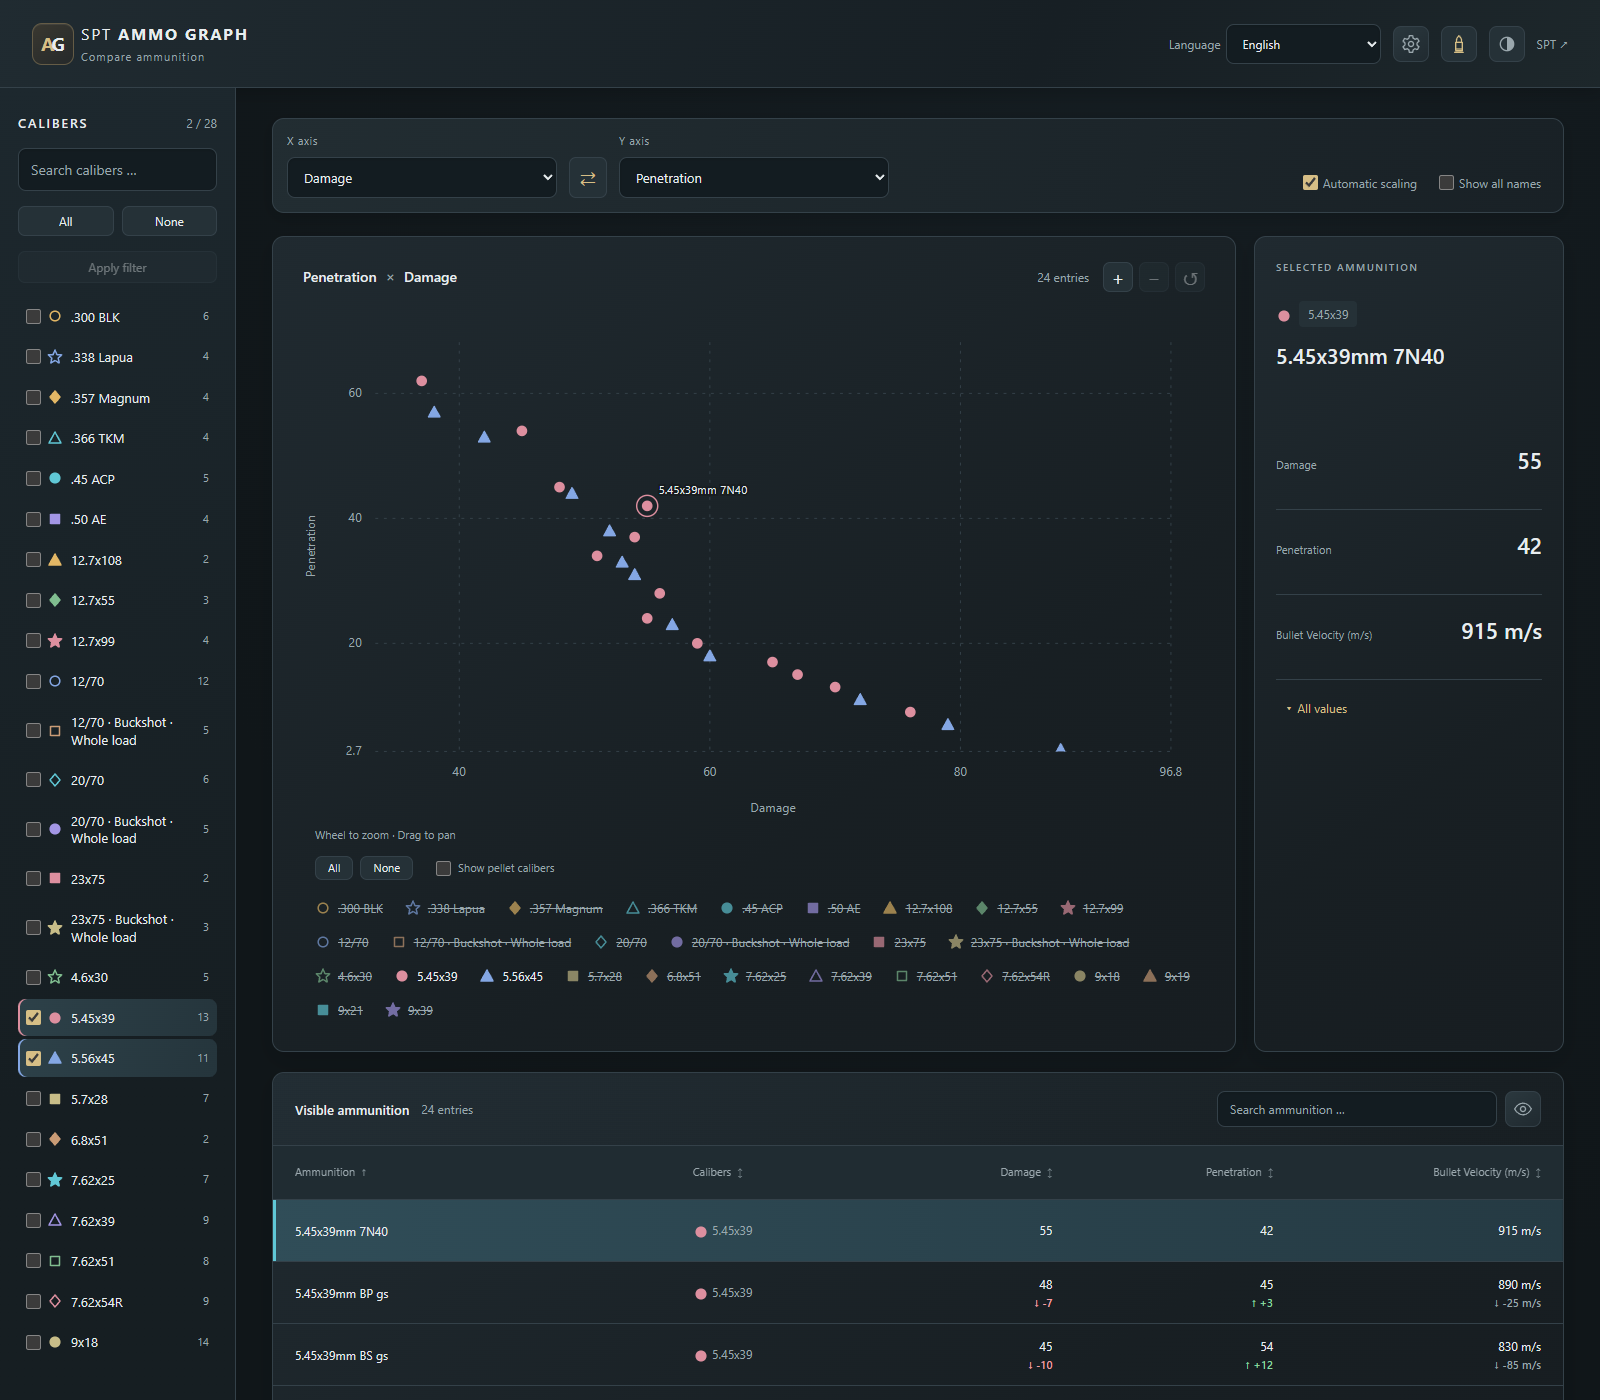
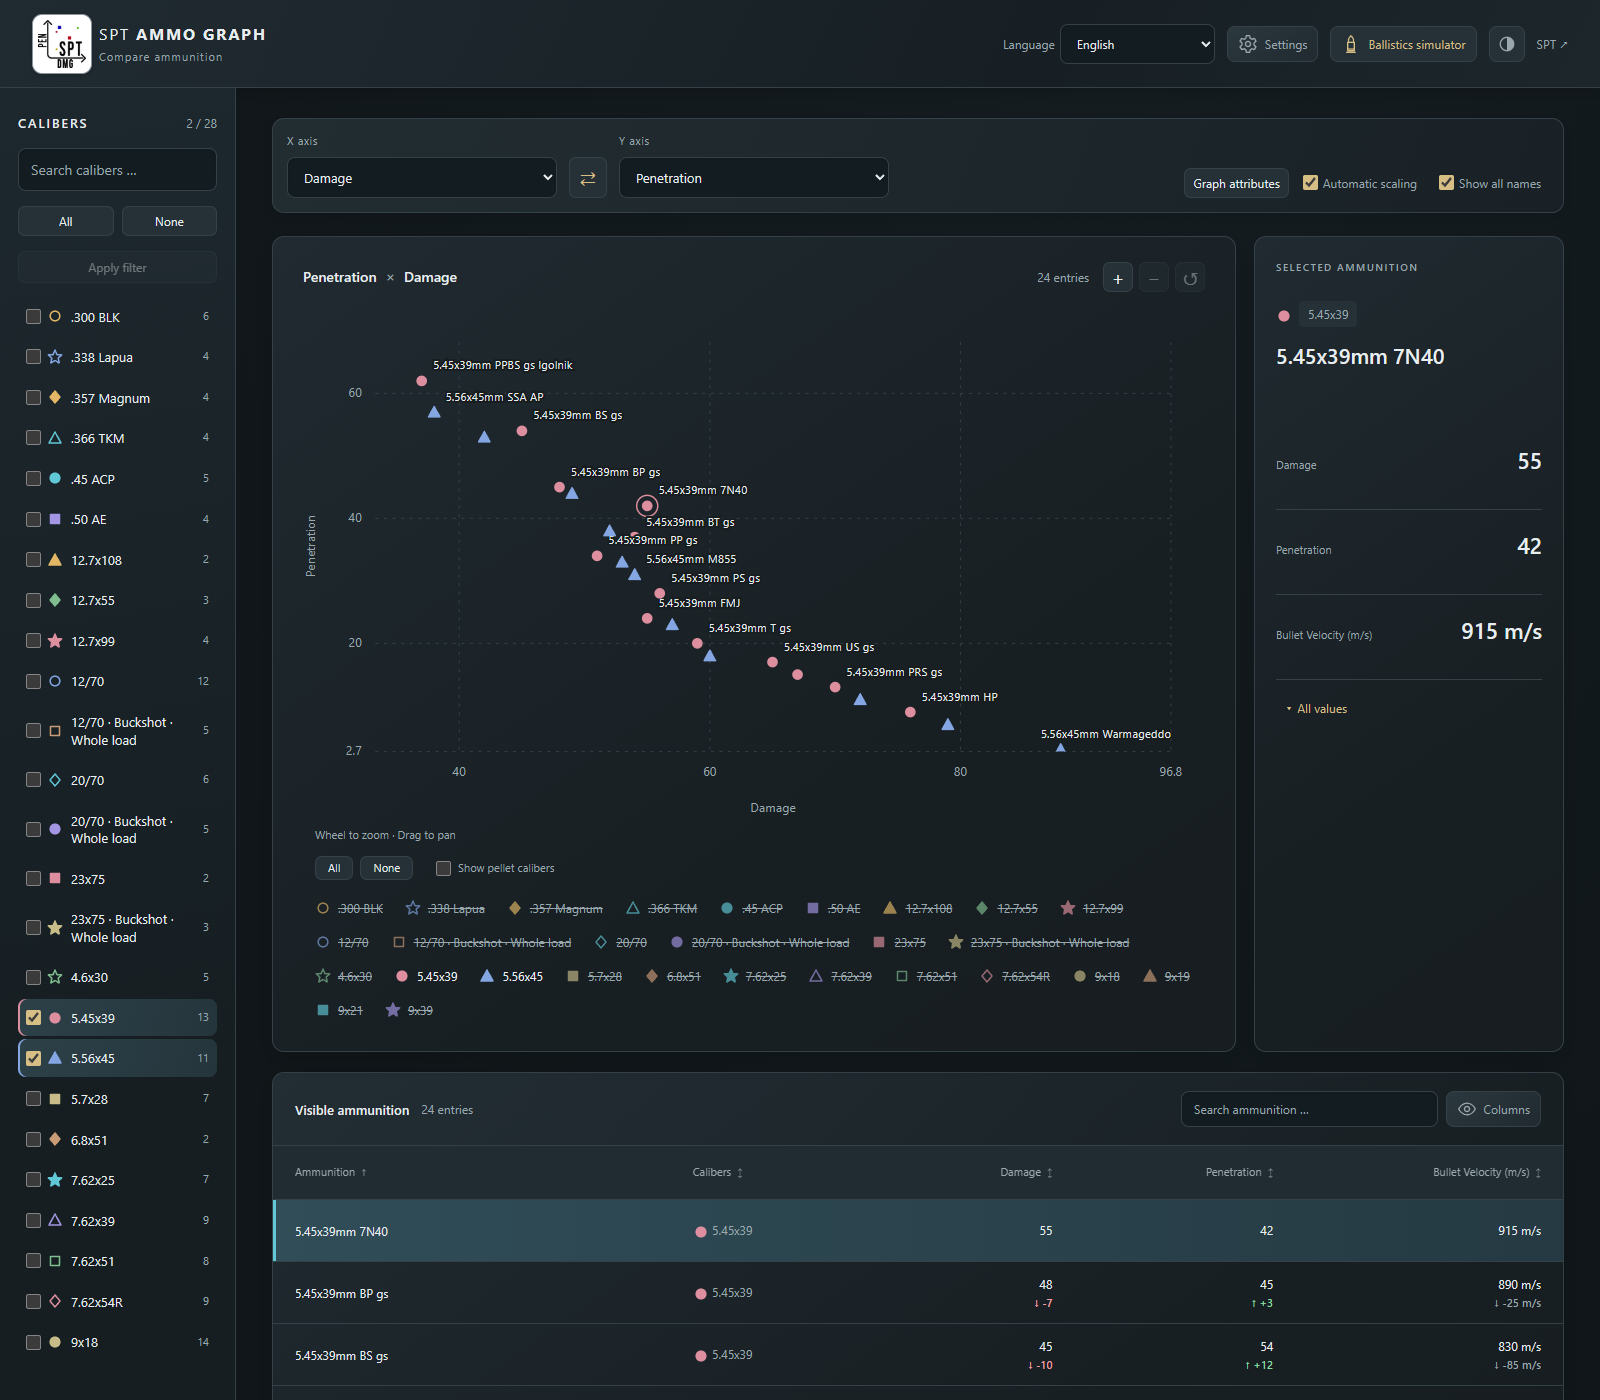
images recreated

diff --git a/docs/testing.md b/docs/testing.md
@@ -92,15 +92,30 @@ Inspect the generated images for loaded data, readable labels, the correct menu 
 
 ### Shots to Kill screenshots
 
-Build and start the separate [simulation test host](simulation.md#implementation-and-validation). It reads the local SPT dataset and exposes the read-only fixture endpoint needed by the capture script. It is not installed into SPT or included in releases.
+The screenshot script reads metrics, calibers and actual successful/capped values from the rendered live page. It does not require a test endpoint or a separate test host. The functional `shots-to-kill.mjs` test still requires the separate [simulation test host](simulation.md#implementation-and-validation).
 
 ```powershell
-$env:AMMOGRAPH_URL = 'http://127.0.0.1:6973/AmmoGraph'
-node AmmoGraph/tests/shots-to-kill.mjs
+$env:AMMOGRAPH_URL = 'https://localhost:6969/AmmoGraph'
 node AmmoGraph/tests/screenshots-shots-to-kill.mjs
 ```
 
-The screenshot script writes `shots-to-kill-graph.png`, `shots-to-kill-table.png` and `shots-to-kill-attributes.png` into `docs/images`. It selects the highest eligible reference class and calibers containing successful and capped outcomes from the actual loaded data, with a fresh English browser context. The dataset must provide both outcomes. Inspect all three images before committing documentation.
+The screenshot script writes `shots-to-kill-graph.png`, `shots-to-kill-table.png` and `shots-to-kill-attributes.png` into `docs/images`. It selects the highest eligible reference class and calibers containing successful and capped outcomes from the actual loaded data, with a fresh English browser context. The dataset must provide both outcomes. It temporarily includes default-hidden entries only within that isolated browser context. Inspect all three images before committing documentation.
+
+### Recreating all documentation screenshots on the live server
+
+With the installed SPT server running, execute these commands from the shared workspace:
+
+```powershell
+$env:AMMOGRAPH_URL = 'https://localhost:6969/AmmoGraph'
+node AmmoGraph/tests/screenshots.mjs
+node AmmoGraph/tests/screenshots-header.mjs
+node AmmoGraph/tests/screenshots-shots-to-kill.mjs
+node AmmoGraph/tests/screenshots-simulator.mjs
+```
+
+Together these recreate all 19 PNG images in `docs/images`: eight general views, two header themes, three Shots to Kill views, four simulator views and two usability views. Each script uses a fresh English browser context. General, Shots to Kill and simulator captures wait for transient automatic-save notifications to clear. Simulator captures show real 2,000-run results, the configured carrier and front plate, a zoomed selection, contextual help with readable ammunition names, and buckshot at 50% mean pellet hits. The simulator script requires the standard 5.45x39 and 12/70 calibers, Ars Arma CPC MOD.1 carrier and GAC 3s15m front plate present in the test installation.
+
+The full image set was recreated from the live SPT server running AmmoGraph **0.25.5** on **2026-11-16**. The normal browser profile and installed configuration files are not changed by these capture scripts.
 
 ## Keeping documentation current
 

diff --git a/docs/ui.md b/docs/ui.md
@@ -2,7 +2,7 @@
 
 [Project overview](../README.md) · [Usage](usage.md) · [Developer guide](development.md)
 
-These screenshots were captured from the running local application using a separate temporary browser profile. They show the English interface in the dark theme. Available ammunition, values, and calibers depend on the installed mods. See [documentation maintenance](testing.md#updating-screenshots) to regenerate them.
+These screenshots were recreated on 2026-11-16 from the live SPT server running AmmoGraph 0.25.5, using separate temporary browser contexts. They show the English interface in the dark theme, with both themes shown for the header. Available ammunition, values, and calibers depend on the installed mods. See [documentation maintenance](testing.md#updating-screenshots) to regenerate all 19 images.
 
 ## Overview
 
